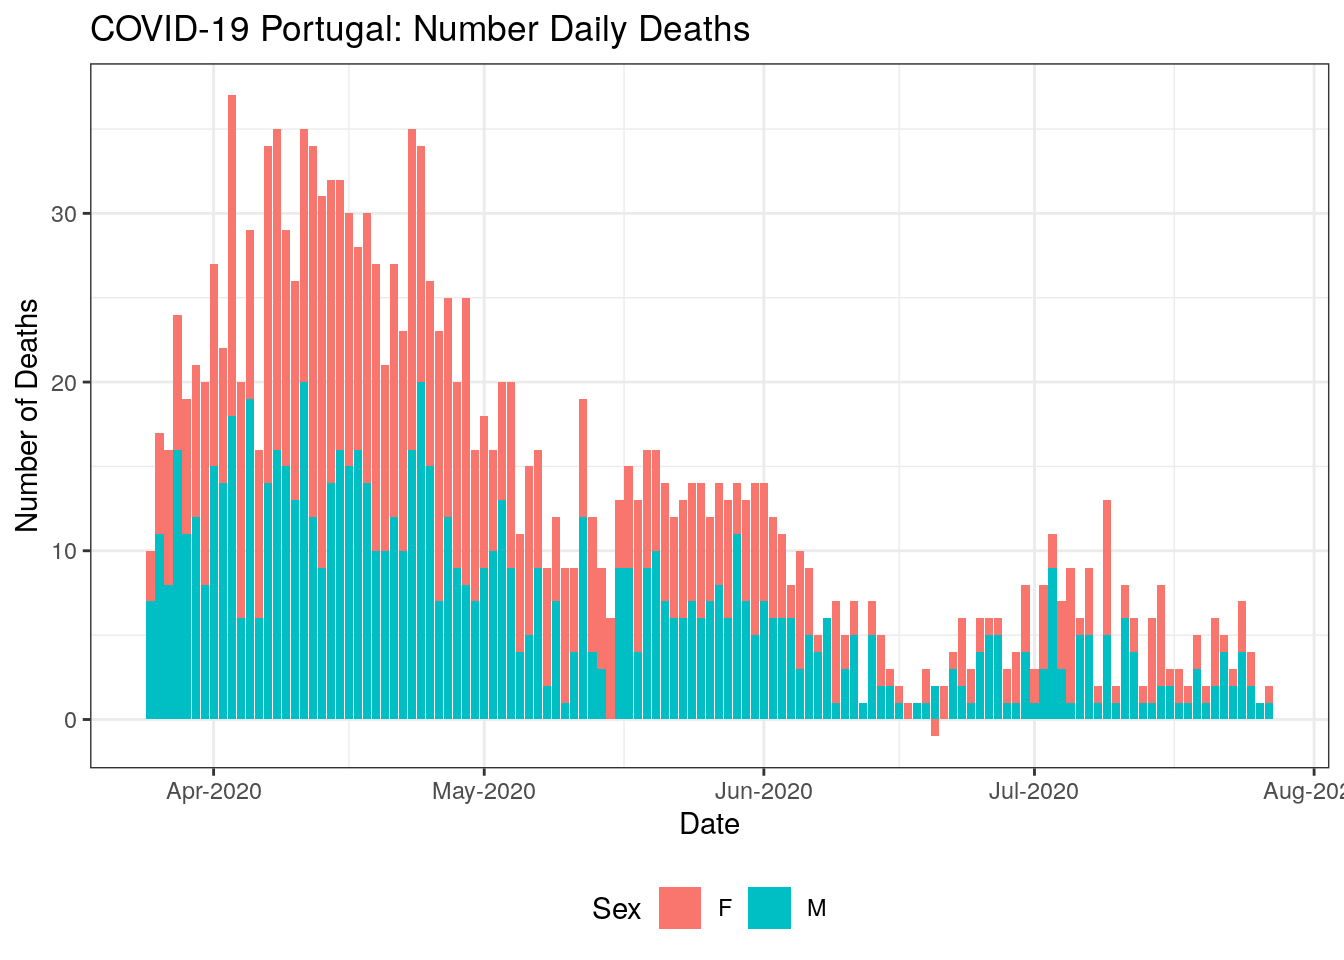
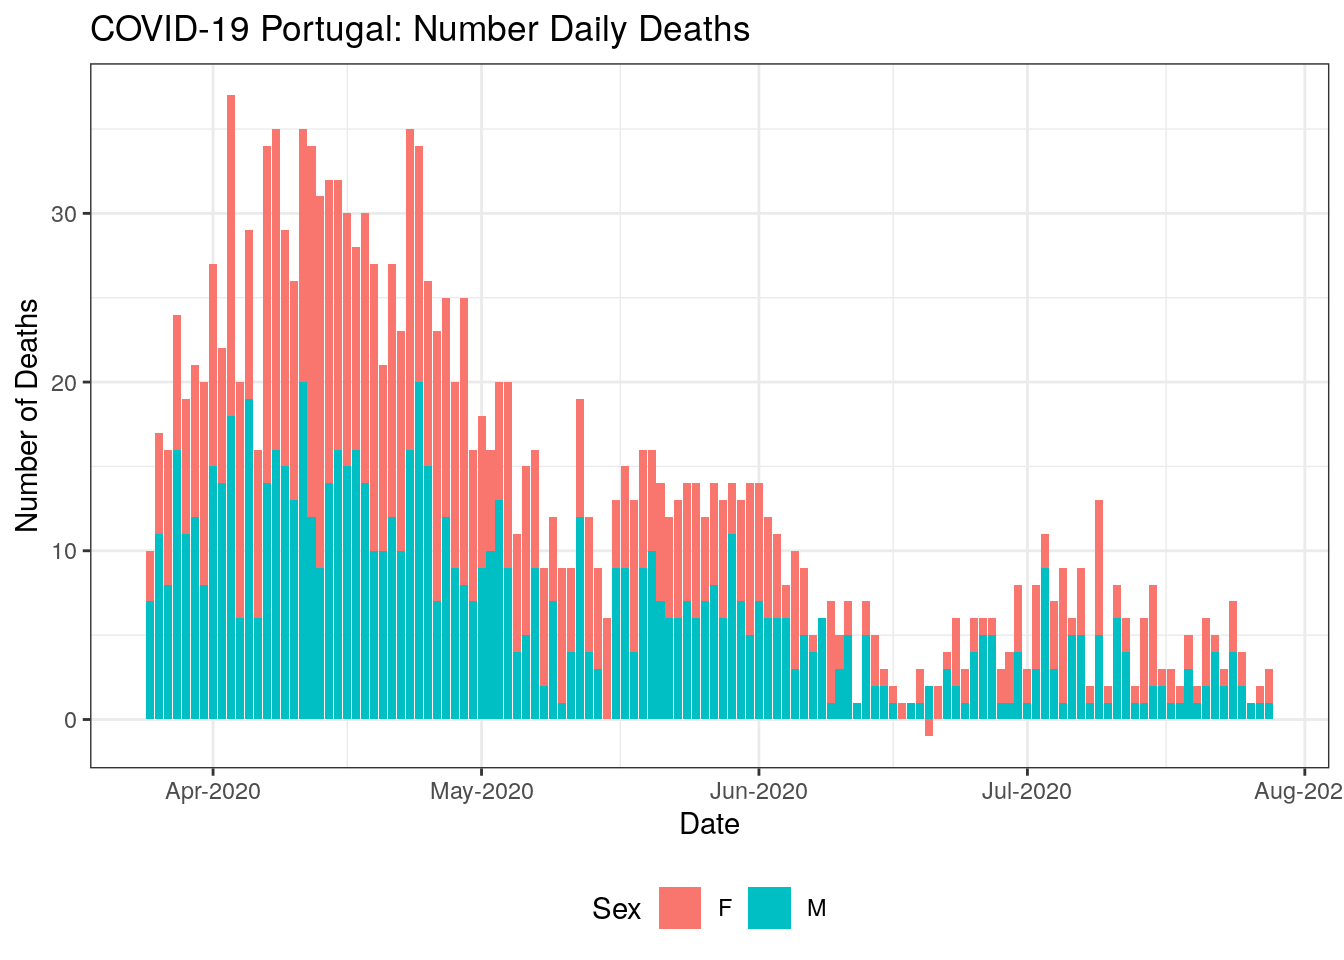
Manual update & tried to fix GitHub Actions issue

diff --git a/README.md b/README.md
@@ -1,9 +1,12 @@
 
+![Rendered
+README](https://github.com/CEAUL/Dados_COVID-19_PT/workflows/Render%20README/badge.svg)
+
 ## Daily Portuguese COVID-19 Data
 
-**Last updated: Mon 27 Jul 2020 (17:18:42 WEST \[+0100\])**
+**Last updated: Tue 28 Jul 2020 (17:12:35 WEST \[+0100\])**
 
-  - Data available from **26 Feb 2020** until **27 Jul 2020** (153
+  - Data available from **26 Feb 2020** until **28 Jul 2020** (154
     days).
 
 ### Download User Friendly Version
@@ -60,19 +63,19 @@ CV <- fread(here("data", "covid19pt_DSSG_Long.csv"))
 # Looking at the data:
 tail(CV)
 ##          data   origVars   origType other symptoms sex ageGrpLower ageGrpUpper
-## 1: 2020-07-22 vigilancia vigilancia                All                        
-## 2: 2020-07-23 vigilancia vigilancia                All                        
-## 3: 2020-07-24 vigilancia vigilancia                All                        
-## 4: 2020-07-25 vigilancia vigilancia                All                        
-## 5: 2020-07-26 vigilancia vigilancia                All                        
-## 6: 2020-07-27 vigilancia vigilancia                All                        
+## 1: 2020-07-23 vigilancia vigilancia                All                        
+## 2: 2020-07-24 vigilancia vigilancia                All                        
+## 3: 2020-07-25 vigilancia vigilancia                All                        
+## 4: 2020-07-26 vigilancia vigilancia                All                        
+## 5: 2020-07-27 vigilancia vigilancia                All                        
+## 6: 2020-07-28 vigilancia vigilancia                All                        
 ##    ageGrp   region value valueUnits
-## 1:        Portugal 35040      Count
-## 2:        Portugal 34966      Count
-## 3:        Portugal 34870      Count
-## 4:        Portugal 34980      Count
-## 5:        Portugal 35157      Count
-## 6:        Portugal 35120      Count
+## 1:        Portugal 34966      Count
+## 2:        Portugal 34870      Count
+## 3:        Portugal 34980      Count
+## 4:        Portugal 35157      Count
+## 5:        Portugal 35120      Count
+## 6:        Portugal 35335      Count
 
 # Order data by original variable name and date.
 setkeyv(CV, c("origVars", "data"))
@@ -122,7 +125,7 @@ CV[origType=="confirmados" & ageGrp=="" & region!="Portugal"] %>%
     y = "Number of Confirmed Cases",
     colour = "Region")
 ## Warning: Transformation introduced infinite values in continuous y-axis
-## Warning: Removed 137 row(s) containing missing values (geom_path).
+## Warning: Removed 138 row(s) containing missing values (geom_path).
 ```
 
 <img src="README_figs/README-casesbyRegion-1.png" width="672" />
@@ -151,9 +154,9 @@ CV[dailyChange<0 & !(origType %in% c("vigilancia", "internados"))][
 ##   4: 2020-03-24 confirmados   confirmados_40_49_f   224          -2
 ##   5: 2020-03-19 confirmados   confirmados_60_69_f    35         -14
 ##  ---                                                               
-## 179: 2020-04-04      obitos    obitos_arsalentejo     0          -1
-## 180: 2020-05-23      obitos      obitos_arscentro   230          -3
-## 181: 2020-07-03      obitos      obitos_arscentro   248          -1
-## 182: 2020-06-20      obitos              obitos_f   768          -1
-## 183: 2020-05-21 transmissao transmissao_importada   767          -3
+## 180: 2020-04-04      obitos    obitos_arsalentejo     0          -1
+## 181: 2020-05-23      obitos      obitos_arscentro   230          -3
+## 182: 2020-07-03      obitos      obitos_arscentro   248          -1
+## 183: 2020-06-20      obitos              obitos_f   768          -1
+## 184: 2020-05-21 transmissao transmissao_importada   767          -3
 ```
